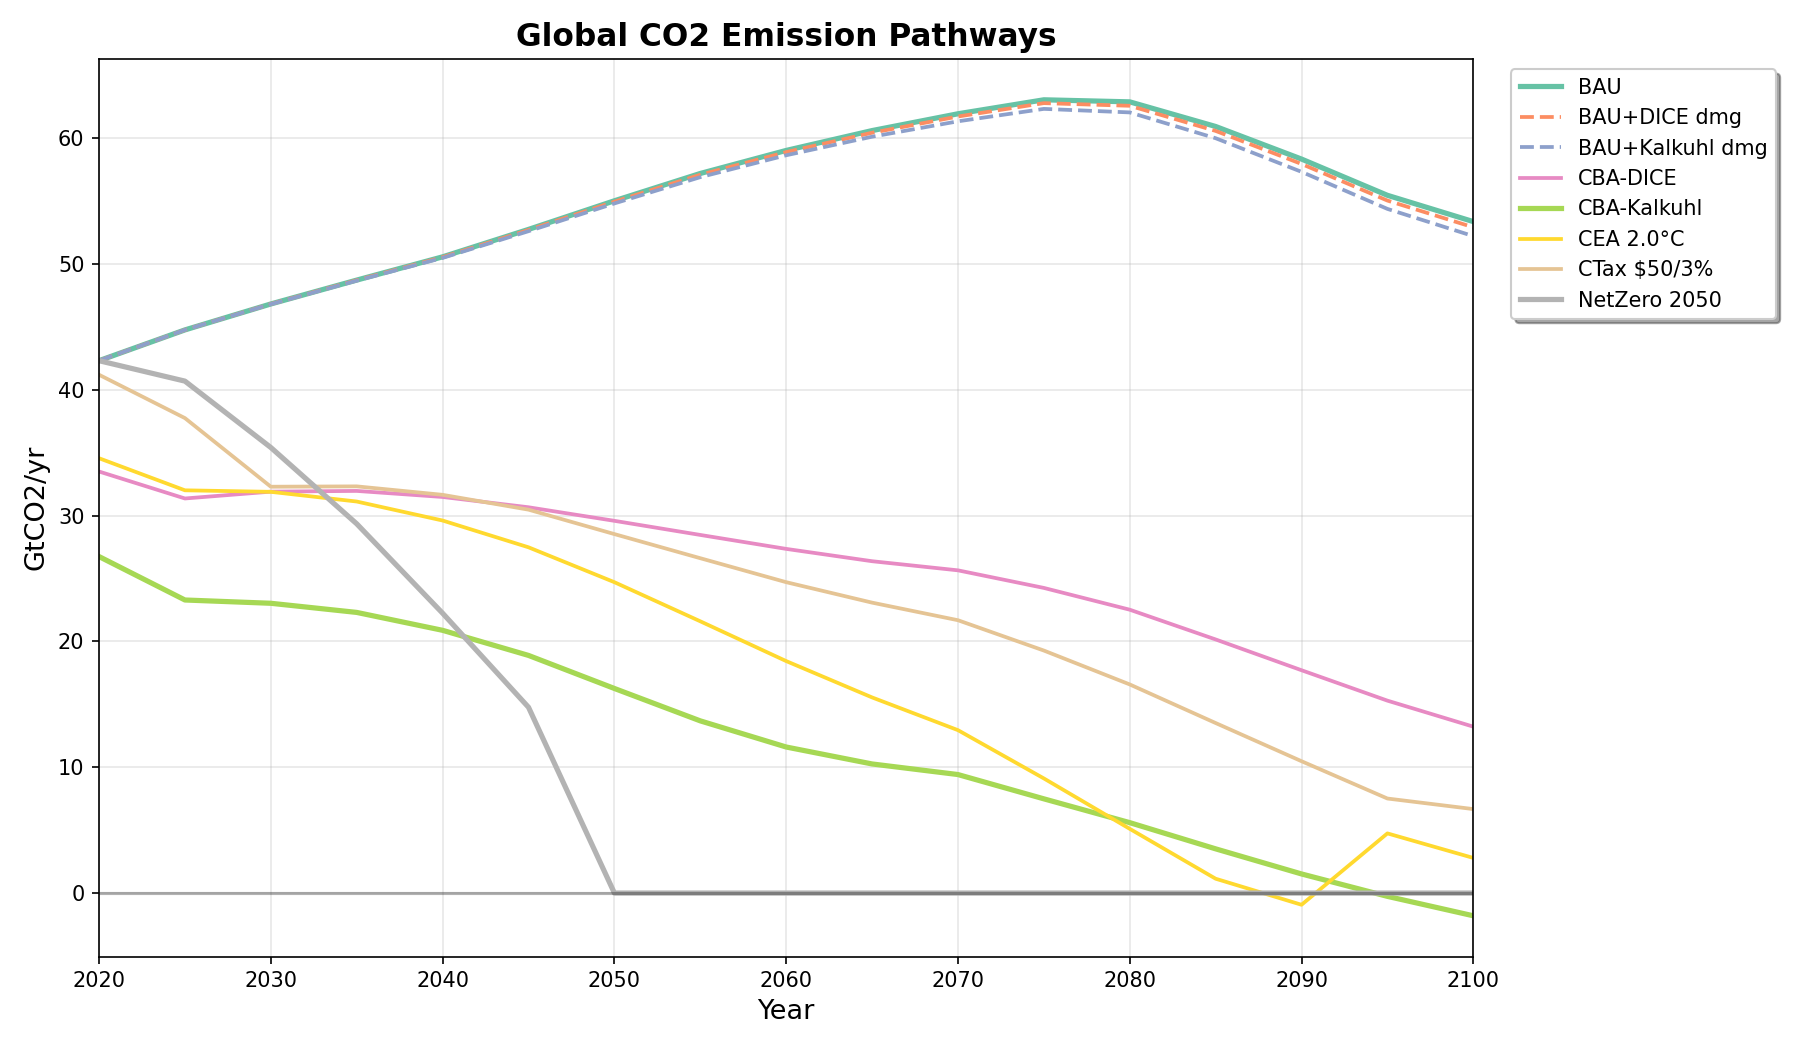
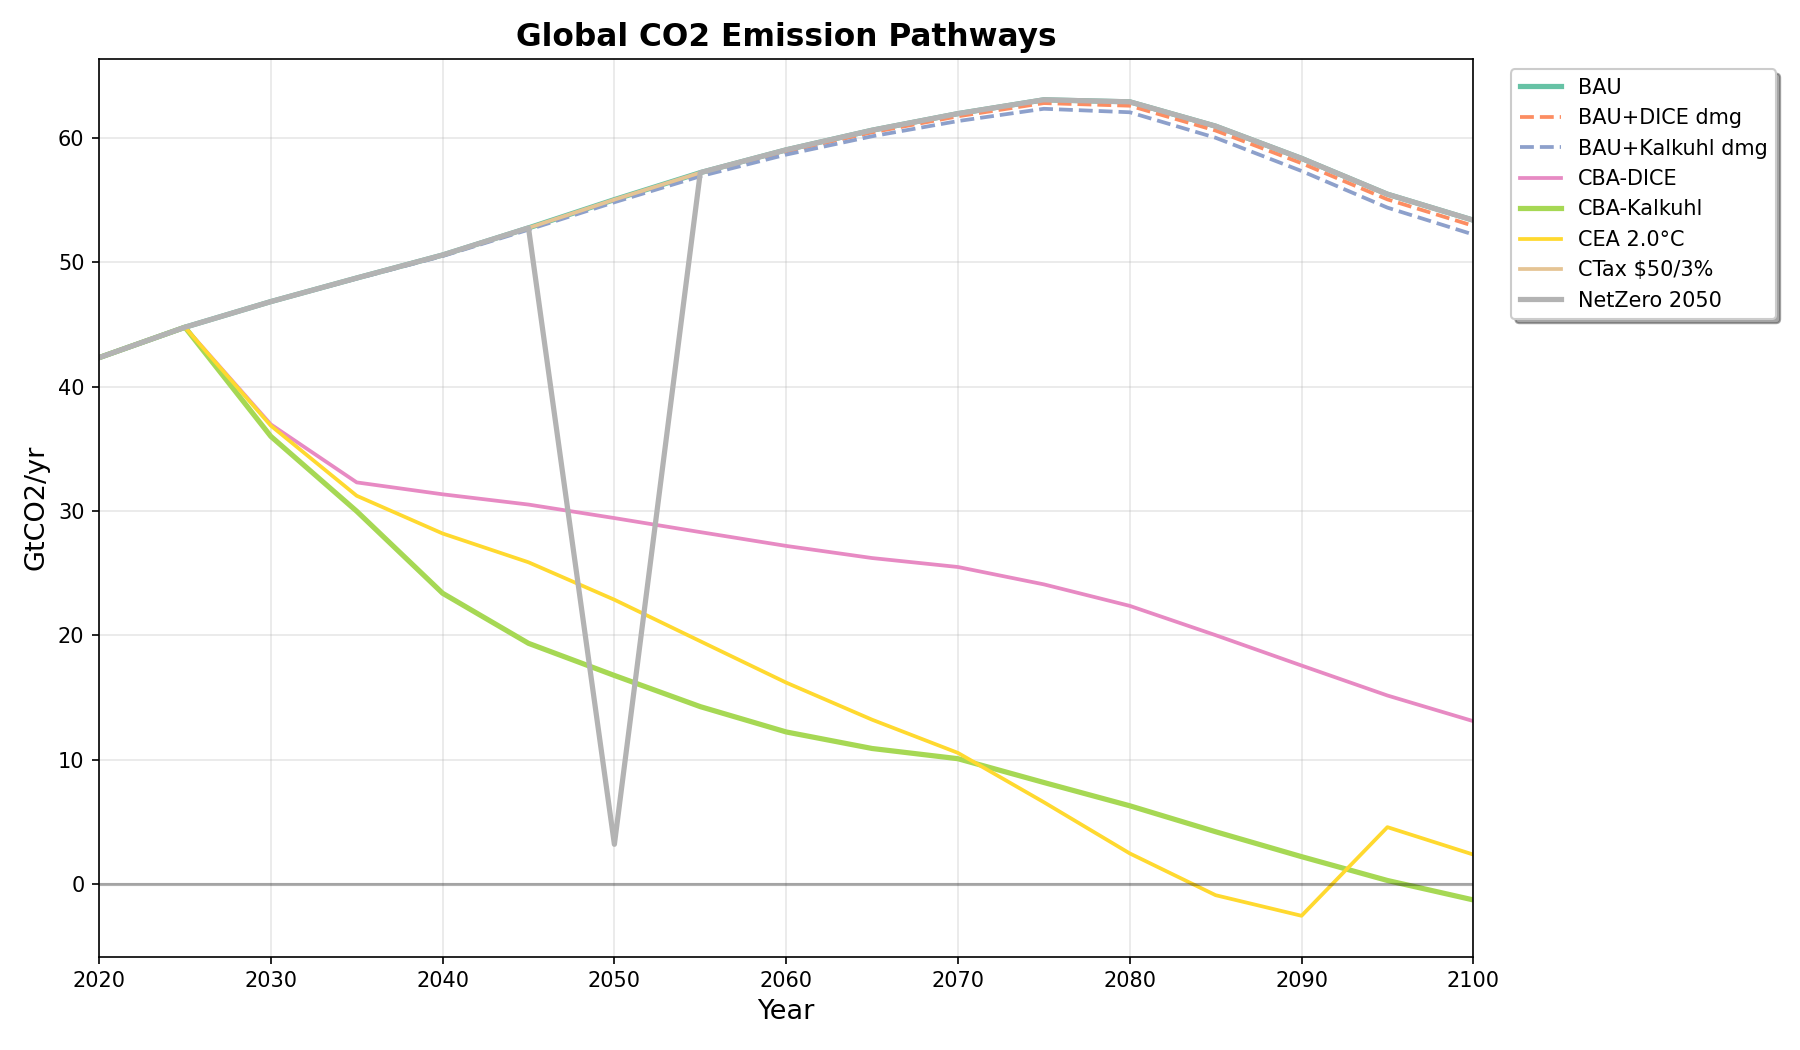
Fix tmiufix: MIU.up and MIULAND must respect tmiufix periods
- core_abatement: skip MIU.up override for tmiufix periods (was unfixing
  MIU=0 set by core_policy, causing early abatement in CBA/CEA)
- mod_landuse: use cfg.tmiufix instead of hardcoded t=1,2 for MIULAND.fx
- Regenerate all validation graphs with corrected emission pathways

diff --git a/modules/core_abatement.py b/modules/core_abatement.py
@@ -76,15 +76,19 @@ def define_eqs(m, sets, params, cfg, v):
     MIU = v["MIU"]
 
     # ------------------------------------------------------------------
-    # MIU upper bounds for non-CO2 (GAMS core_abatement.gms compute_vars)
-    # GAMS: MIU.up(t,n,ghg)$(not tmiufix(t) and not sameas(ghg,'co2')) = maxmiu_pbl(t,n,ghg)
-    # For non-CO2 GHGs, override MIU.up with species-specific max from PBL data.
-    # Skip for bau/bau_impact/simulation where MIU is fixed to 0 in core_policy,
-    # because setting .up here (in define_eqs, Pass 2) would override the .fx
-    # set in declare_vars (Pass 1).
+    # MIU upper bounds (GAMS core_abatement.gms compute_vars)
+    # GAMS: MIU.up(t,n,ghg)$(not tmiufix(t)) = maxmiu_pbl(t,n,ghg)
+    # Must skip tmiufix periods AND bau/bau_impact/simulation (MIU.fx=0
+    # for all t), because setting .up in define_eqs (Pass 2) overrides
+    # the .fx set in core_policy declare_vars (Pass 1).
     # ------------------------------------------------------------------
-    if cfg.policy not in ("bau", "bau_impact", "simulation"):
-        MIU.up[t_set, n_set, ghg_set] = par_maxmiu_pbl[t_set, n_set, ghg_set]
+    if cfg.policy in ("bau", "bau_impact", "simulation"):
+        pass  # MIU.fx=0 for all periods, don't override
+    else:
+        tmiufix_set = set(cfg.tmiufix)
+        for t_idx in range(1, cfg.T + 1):
+            if t_idx not in tmiufix_set:
+                MIU.up[str(t_idx), n_set, ghg_set] = par_maxmiu_pbl[str(t_idx), n_set, ghg_set]
 
     # ------------------------------------------------------------------
     # Equations

diff --git a/modules/mod_landuse.py b/modules/mod_landuse.py
@@ -47,9 +47,10 @@ def declare_vars(m, sets, params, cfg, v):
 
     # ------------------------------------------------------------------
     # Fixed initial conditions
+    # GAMS: MIULAND.fx(t,n)$(tmiufix(t)) = 0
     # ------------------------------------------------------------------
-    MIULAND.fx["1", n_set] = 0
-    MIULAND.fx["2", n_set] = 0
+    for t_idx in cfg.tmiufix:
+        MIULAND.fx[str(t_idx), n_set] = 0
 
     # Register in shared variable dict
     v["ELAND"] = ELAND
